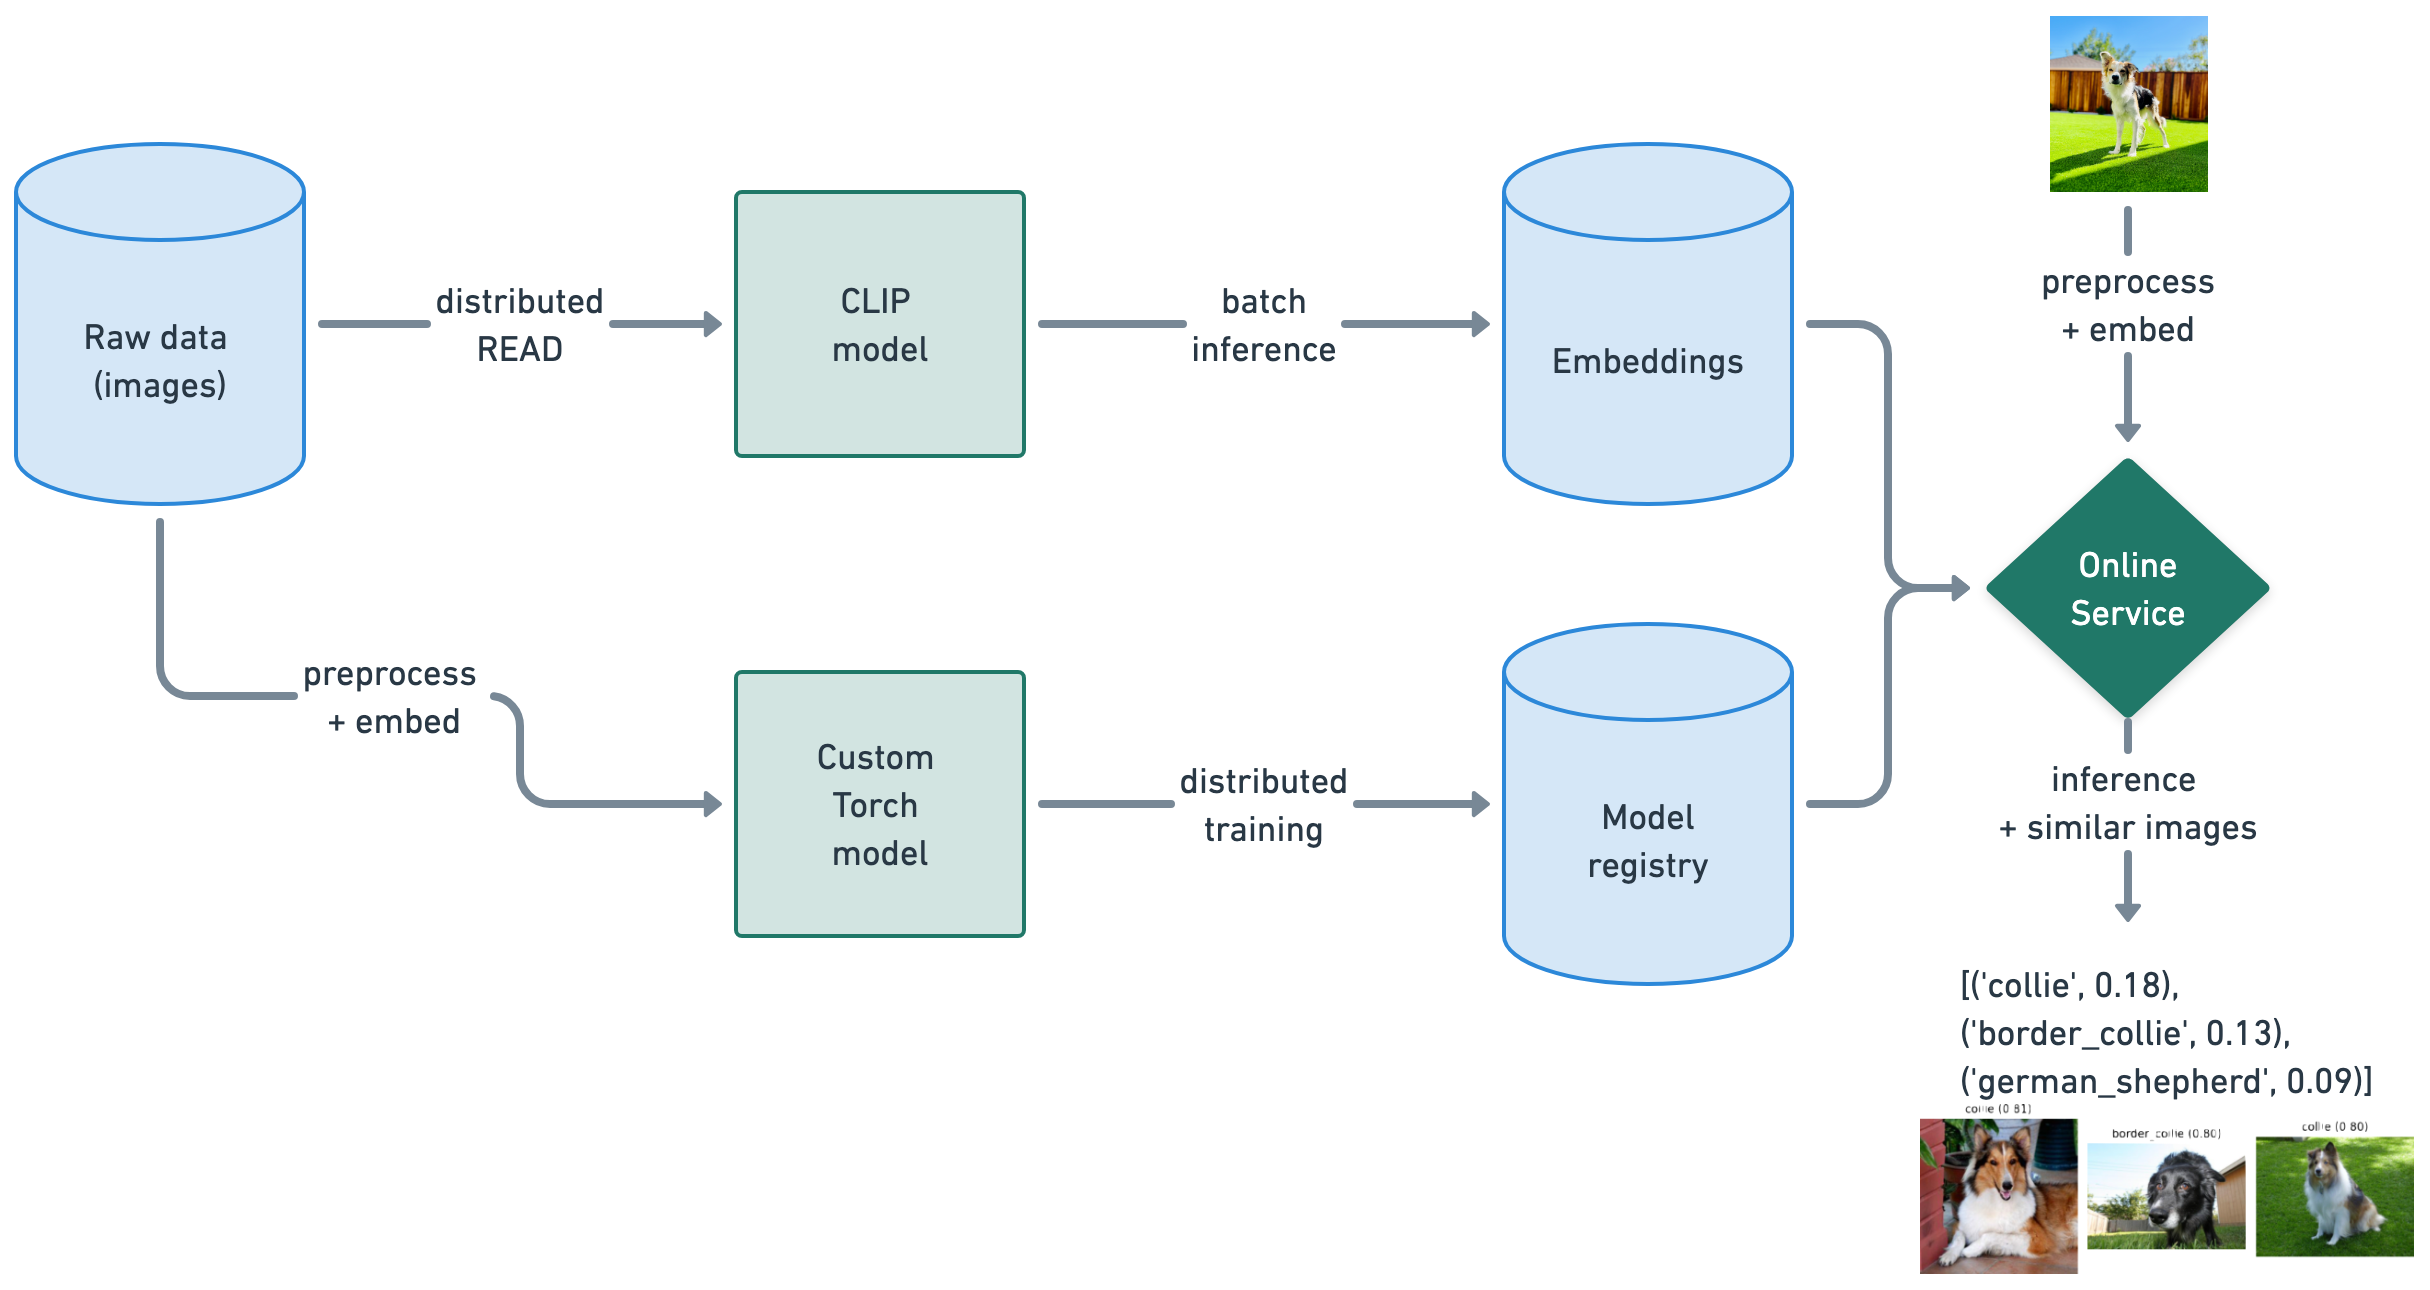
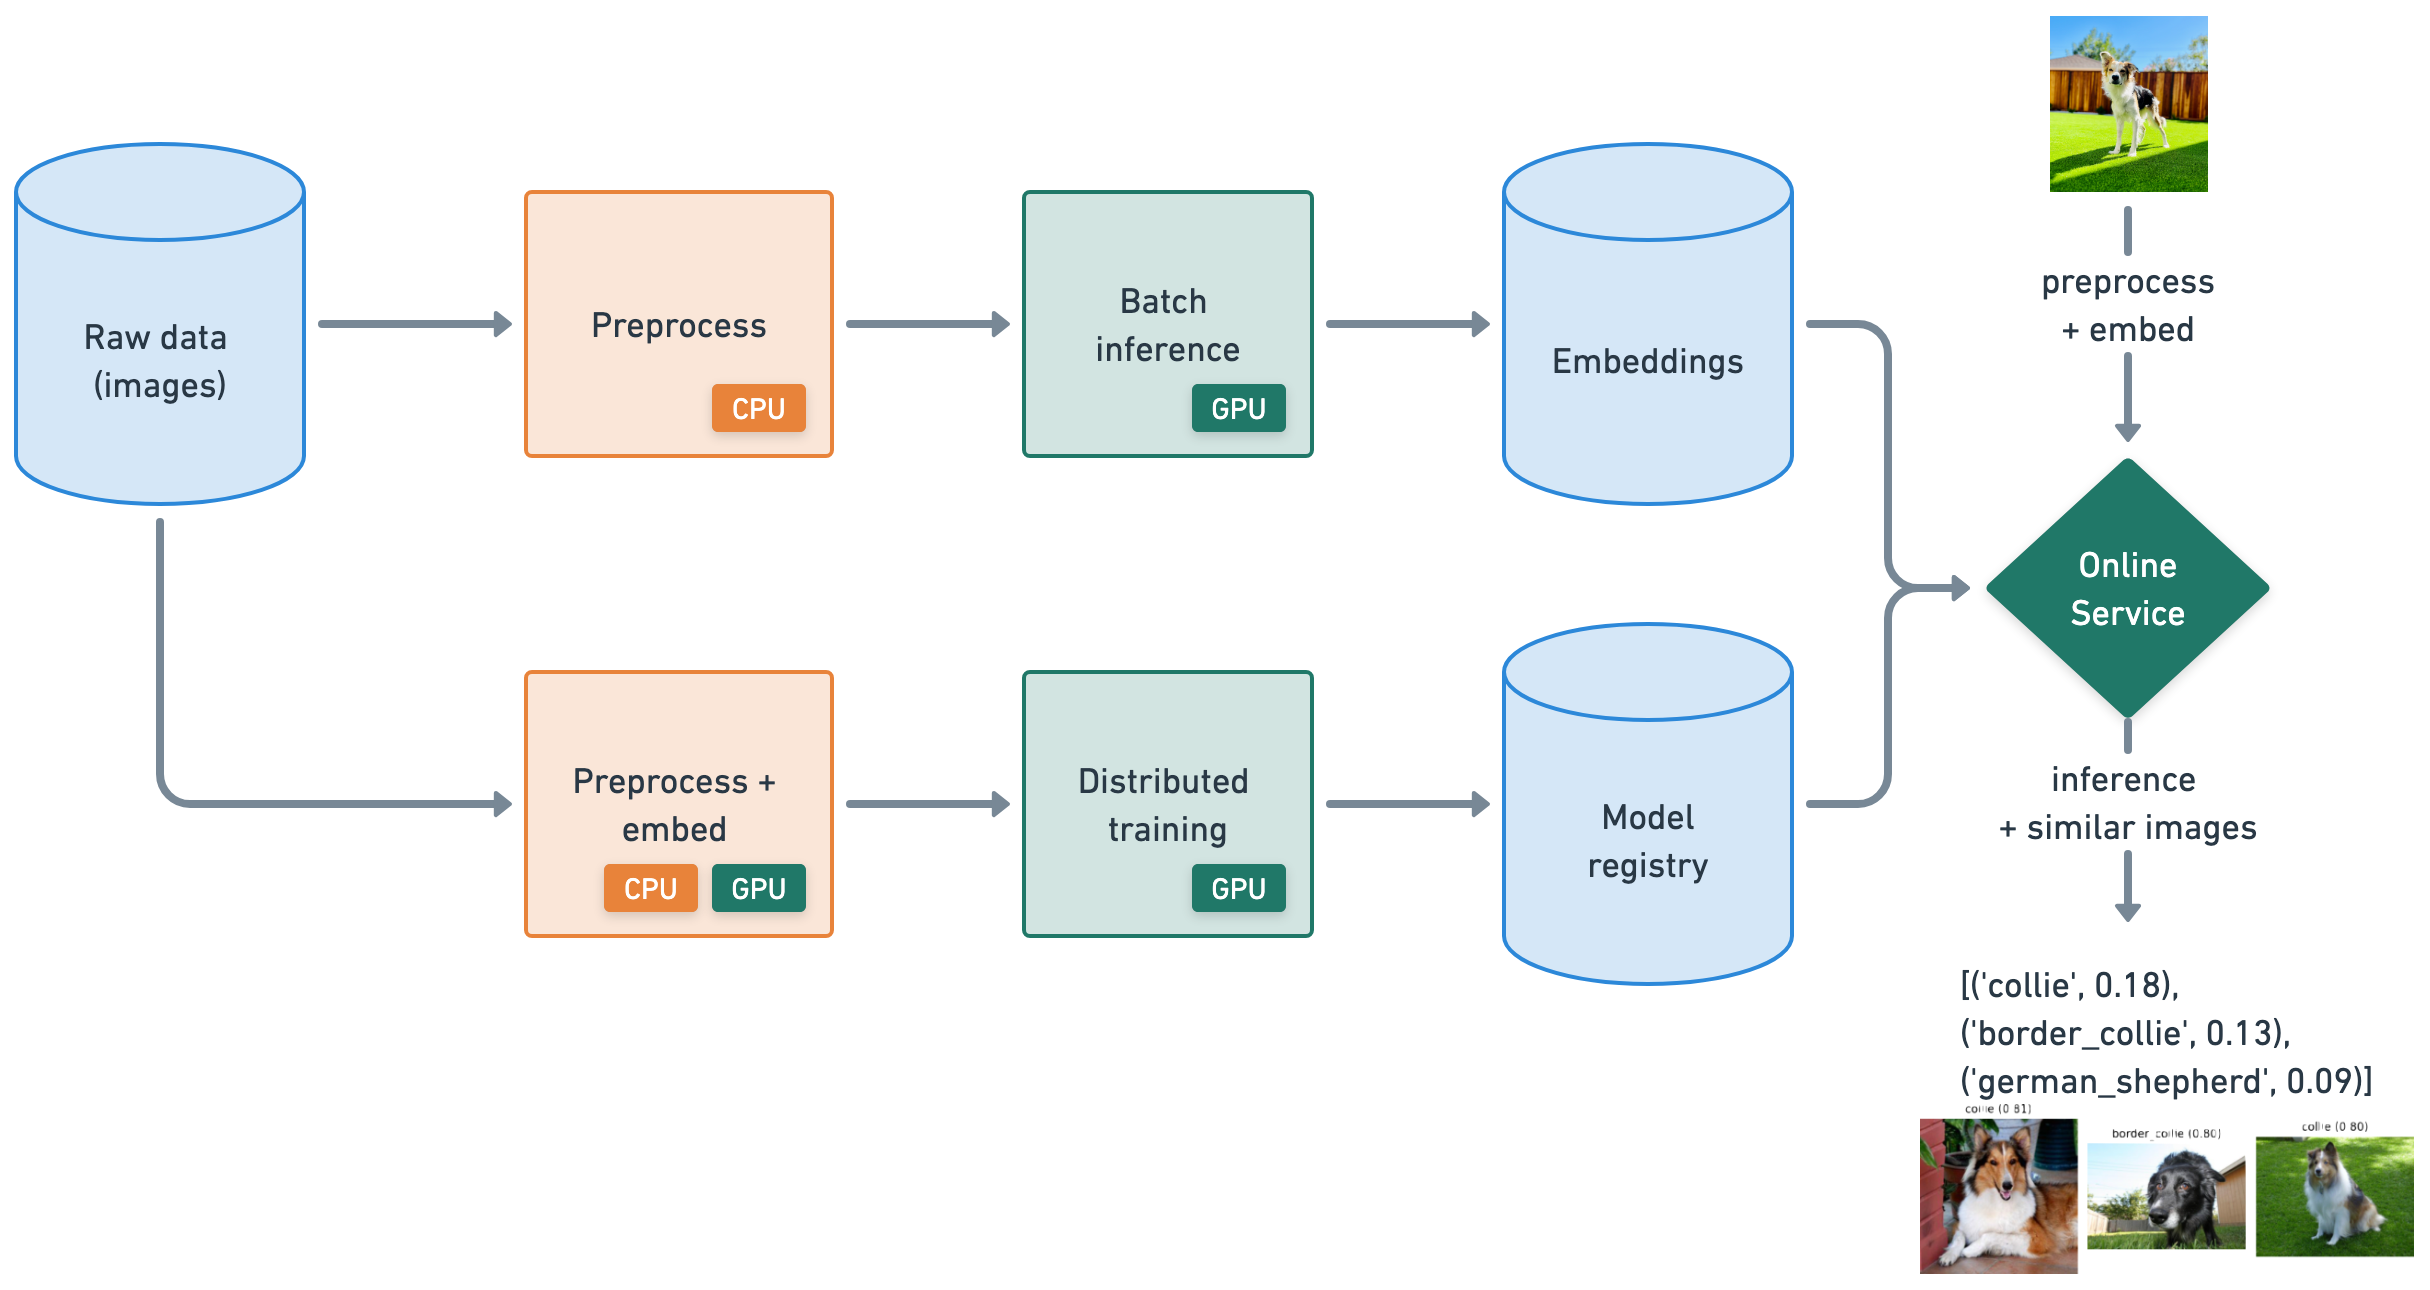
fixed streaming data

Changed region(s): [[0.0617, 0.4961, 0.5556, 0.7442], [0.1852, 0.124, 0.5556, 0.3721]]

diff --git a/doggos/train.py b/doggos/train.py
@@ -127,11 +127,11 @@ if __name__ == "__main__":
     }
 
     # Scaling config
-    num_workers = 4
+    num_workers = 2
     scaling_config = ray.train.ScalingConfig(
         num_workers=num_workers,
         use_gpu=True,
-        resources_per_worker={"CPU": 8, "GPU": 1},
+        resources_per_worker={"CPU": 8, "GPU": 2},
     )
 
     # Datasets
